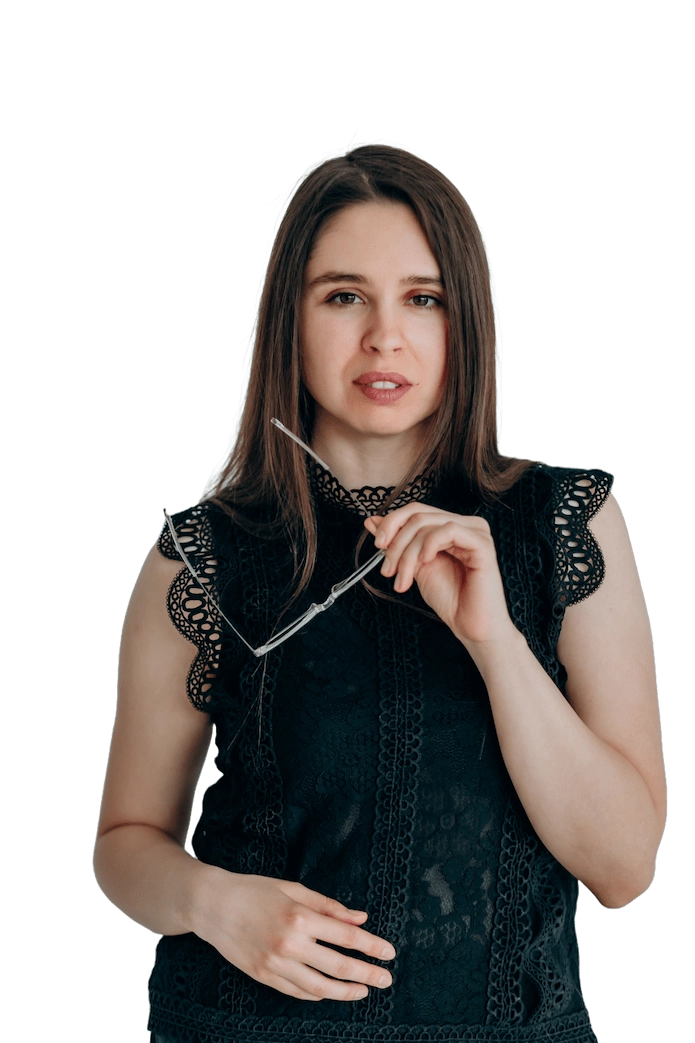
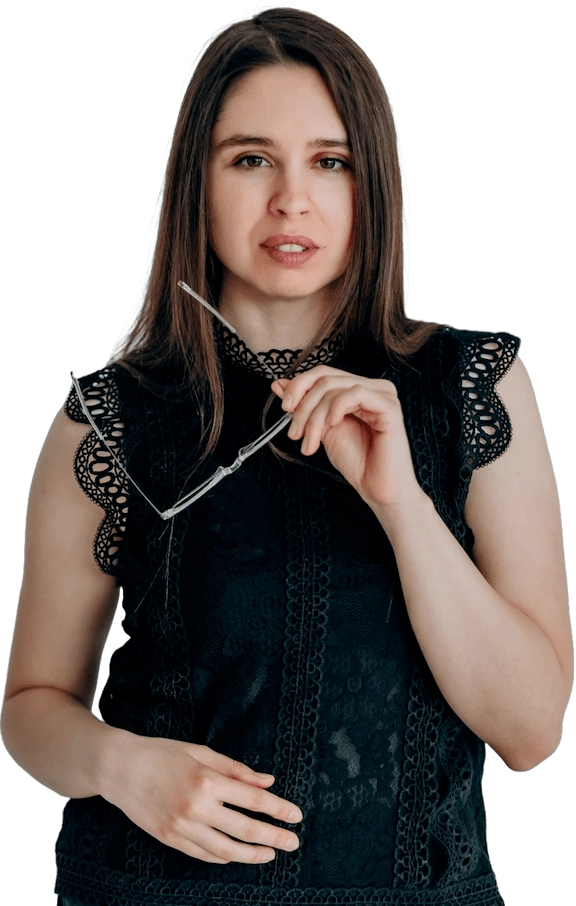
feat: enhance styles and layout for about me component, update image assets and button design

diff --git a/src/app/about-me/about-me.component.css b/src/app/about-me/about-me.component.css
@@ -1,18 +1,28 @@
-:host {}
+:host {
+  display: block;
+  max-width: 1200px;
+  margin: 0 auto;
+  padding: 2rem 1rem 1rem;
+}
 
 .profile-container {
   display: flex;
   justify-content: space-between;
-  gap: 5rem;
-  padding: 1rem 2rem;
+
+  padding: 1rem 0 0;
   width: 100%;
   max-width: var(--container-max-width);
   margin: 0 auto;
+
+  border-radius: 0.5rem;
+  border: 1px solid var(--color-green);
+  box-shadow: var(--color-green) 0 0 0.25rem;
+  background-color: #bb925c1c;
 }
 
-.profile-photo {
+/* .profile-photo {
   border-radius: 5%;
-}
+} */
 
 .profile-content {
   display: flex;
@@ -22,16 +32,33 @@
   gap: 1rem;
 }
 
-.profile-content,
-.profile-photo {
+.profile-content {
+  flex: 1.75;
+}
+
+.main-photo-container {
   flex: 1;
-  width: 50%;
+}
+
+.main-photo-container {
+  display: flex;
+  align-items: flex-end;
+  justify-content: flex-end;
 }
 
 .info-container {
   background-color: #edeeef;
-  box-shadow: rgba(0, 39, 6, 0.4) 0px 0px 0px 2px, rgba(0, 39, 6, 0.65) 0px 4px 6px -1px, rgba(255, 255, 255, 0.08) 0px 1px 0px inset;
-  padding: 1rem 1.5rem;
+  box-shadow:
+    rgba(0, 39, 6, 0.4) 0px 0px 0px 2px,
+    rgba(0, 39, 6, 0.65) 0px 4px 6px -1px,
+    rgba(255, 255, 255, 0.08) 0px 1px 0px inset;
+  background-image: linear-gradient(
+    109.6deg,
+    rgba(204, 228, 247, 1) 11.2%,
+    rgba(237, 246, 250, 1) 100.2%
+  );
+  width: 90%;
+  padding: 1rem;
   margin: 0 auto;
 }
 
@@ -44,15 +71,14 @@
 }
 
 .profile-name {
-  font-size: 2.5rem;
-  font-family: var(--font-heading);
-  font-weight: 500;
-  text-align: center;
-  margin-bottom: 2rem;
+  /* font-size: 2.5rem; */
+  /* font-family: var(--font-heading); */
+  /* font-weight: 500; */
+  margin: 0;
 }
 
 .profile-title {
-  color: #000000a1
+  color: #000000a1;
 }
 
 .qualification-list {
@@ -64,7 +90,7 @@
   display: flex;
   gap: 0.5rem;
   line-height: 1.2;
-  margin-bottom: 0.5rem;
+  margin-bottom: 1rem;
   position: relative;
 }
 
@@ -80,38 +106,13 @@
   display: flex;
   justify-content: space-between;
   gap: 2rem;
-  width: 100%;
+  width: 75%;
   margin: 1rem auto;
 }
 
-.button {
-  padding: 0.5rem 1rem;
-  border-radius: 0;
-  text-decoration: none;
-  font-size: 1.2rem;
-  font-weight: 500;
-  text-align: center;
-  box-shadow: rgba(0, 39, 6, 0.4) 0px 0px 0px 2px, rgba(0, 39, 6, 0.65) 0px 4px 6px -1px, rgba(255, 255, 255, 0.08) 0px 1px 0px inset;
-  width: 100%;
-  cursor: pointer;
-  transition: all 0.3s ease;
-}
-
-.button:hover {
-  border-radius: 0.25rem;
-  box-shadow: rgba(0, 39, 6, 0.4) 0px 0px 0px 2px, rgba(0, 39, 6, 0.65) 0px 2px 3px -1px, rgba(255, 255, 255, 0.08) 0px 1px 0px inset;
-}
-
-.button:active {
-  transform: scale(0.95);
-  box-shadow: rgba(0, 39, 6, 0.4) 0px 0px 0px 2px, rgba(0, 39, 6, 0.65) 0px 4px 6px -1px, rgba(255, 255, 255, 0.08) 0px 1px 0px inset;
-}
-
-.button-primary {
-  background-color: var(--color-green);
-  color: #edeeef;
-}
-
-.button-secondary {
-  color: var(--color-green);
+.buttons-container > * {
+  flex: 1;
+  border: 1px solid var(--color-gold);
+  padding: 0.25rem;
+  font-size: 1rem;
 }

diff --git a/src/app/app.component.ts b/src/app/app.component.ts
@@ -1,12 +1,12 @@
 import { Component } from '@angular/core';
-import { RouterOutlet } from '@angular/router';
+import { NavigationEnd, Router, RouterOutlet } from '@angular/router';
 import { inject } from '@angular/core';
-import { AsyncPipe } from '@angular/common';
+import { AsyncPipe, NgStyle } from '@angular/common';
 import { toSignal } from '@angular/core/rxjs-interop';
 
 import { BreakpointObserver } from '@angular/cdk/layout';
 
-import { fromEvent, map, startWith } from 'rxjs';
+import { filter, fromEvent, map, startWith } from 'rxjs';
 
 import { MatSidenavModule } from '@angular/material/sidenav';
 
@@ -24,6 +24,11 @@ const breakpoints = {
   xxl: '(max-width: 1919px)',
 };
 
+const bgs: Record<string, string> = {
+  main: '/assets/grey-marble-column-details-building.webp',
+  'about-me': '/assets/library-bookshelves.webp',
+};
+
 @Component({
   selector: 'app-root',
   imports: [
@@ -32,6 +37,8 @@ const breakpoints = {
     FooterComponent,
     MatSidenavModule,
     DrawerContentComponent,
+    AsyncPipe,
+    NgStyle,
   ],
   templateUrl: './app.component.html',
   styleUrl: './app.component.css',
@@ -44,6 +51,7 @@ export class AppComponent {
     alt: 'Phone',
     color: '#fff',
   };
+  #router = inject(Router);
 
   customBreakpoints = breakpoints;
   currentScreenSize!: string;
@@ -69,4 +77,18 @@ export class AppComponent {
       }))
     )
   );
+
+  navigatedItems$ = this.#router.events.pipe(
+    startWith(new NavigationEnd(0, this.#router.url, this.#router.url)),
+    filter((event): event is NavigationEnd => event instanceof NavigationEnd),
+    map(
+      () =>
+        this.#router
+          .parseUrl(this.#router.url)
+          .root.children['primary']?.segments.map((segment) => segment.path) ||
+        []
+    ),
+    map((segments) => bgs[segments[0]])
+  );
+  // .subscribe(console.log);
 }

diff --git a/src/app/about-me/about-me.component.html b/src/app/about-me/about-me.component.html
@@ -1,12 +1,17 @@
 <div class="profile-container">
-  <img
-    src="/assets/Yuliia-photo.jpg"
-    alt="Юлія Поддяча"
-    class="profile-photo"
-  />
+  <div class="main-photo-container">
+    <img
+      ngSrc="/assets/about-me.webp"
+      alt="Юлія Поддяча"
+      class="profile-photo"
+      width="300"
+      height="472"
+      priority
+    />
+  </div>
 
   <section class="profile-content">
-    <p class="profile-name">Поддяча Юлія Юріївна</p>
+    <h1 class="profile-name">Поддяча Юлія Юріївна</h1>
 
     <div class="info-container">
       <div class="profile-header">
@@ -70,9 +75,9 @@
     </div>
 
     <div class="buttons-container">
-      <button class="button button-primary">Біографія</button>
+      <button mat-flat-button color="primary">Біографія</button>
 
-      <a routerLink="/documents" class="button button-secondary">Документи</a>
+      <a routerLink="/documents" mat-flat-button color="primary">Документи</a>
     </div>
   </section>
 </div>

diff --git a/src/app/main/main.component.css b/src/app/main/main.component.css
@@ -2,7 +2,7 @@
   display: block;
   max-width: 1200px;
   margin: 0 auto;
-  padding: 1rem;
+  padding: 2rem 1rem 1rem;
 }
 /* grey-marble-column-details-building.webp */
 
@@ -100,7 +100,7 @@
 .main-photo-container {
   flex: 1;
   display: flex;
-  justify-content: center;
+  justify-content: flex-start;
   align-items: center;
 }
 
@@ -135,6 +135,7 @@
   .main-photo-container {
     border-bottom: 1px solid var(--color-gold);
     margin-top: 1.5rem;
+    justify-content: center;
   }
 
   .description-text-container {

diff --git a/src/app/app.component.css b/src/app/app.component.css
@@ -43,7 +43,7 @@ mat-sidenav-content {
 }
 
 mat-sidenav-content {
-  background-image: url('/assets/grey-marble-column-details-building.webp');
+  /* background-image: url('/assets/grey-marble-column-details-building.webp'); */
   background-size: cover; /* зображення покриває всю секцію */
   background-position: center; /* фокус по центру */
   background-repeat: no-repeat; /* не повторюється */

diff --git a/src/app/about-me/about-me.component.ts b/src/app/about-me/about-me.component.ts
@@ -1,9 +1,11 @@
+import { NgOptimizedImage } from '@angular/common';
 import { Component } from '@angular/core';
+import { MatButtonModule } from '@angular/material/button';
 import { RouterLink } from '@angular/router';
 
 @Component({
   selector: 'app-about-me',
-  imports: [RouterLink],
+  imports: [NgOptimizedImage, RouterLink, MatButtonModule],
   templateUrl: './about-me.component.html',
   styleUrl: './about-me.component.css',
 })

diff --git a/src/app/app.component.html b/src/app/app.component.html
@@ -14,8 +14,10 @@
   >
     <app-drawer-content (onLinkClick)="drawer.close()"></app-drawer-content>
   </mat-sidenav>
-
-  <mat-sidenav-content>
+  @let navigatedItems = navigatedItems$ | async;
+  <mat-sidenav-content
+    [ngStyle]="{ 'background-image': 'url(' + navigatedItems + ')' }"
+  >
     <!-- <app-header
       [iconsData]="iconsData"
       [phoneData]="phoneData"
